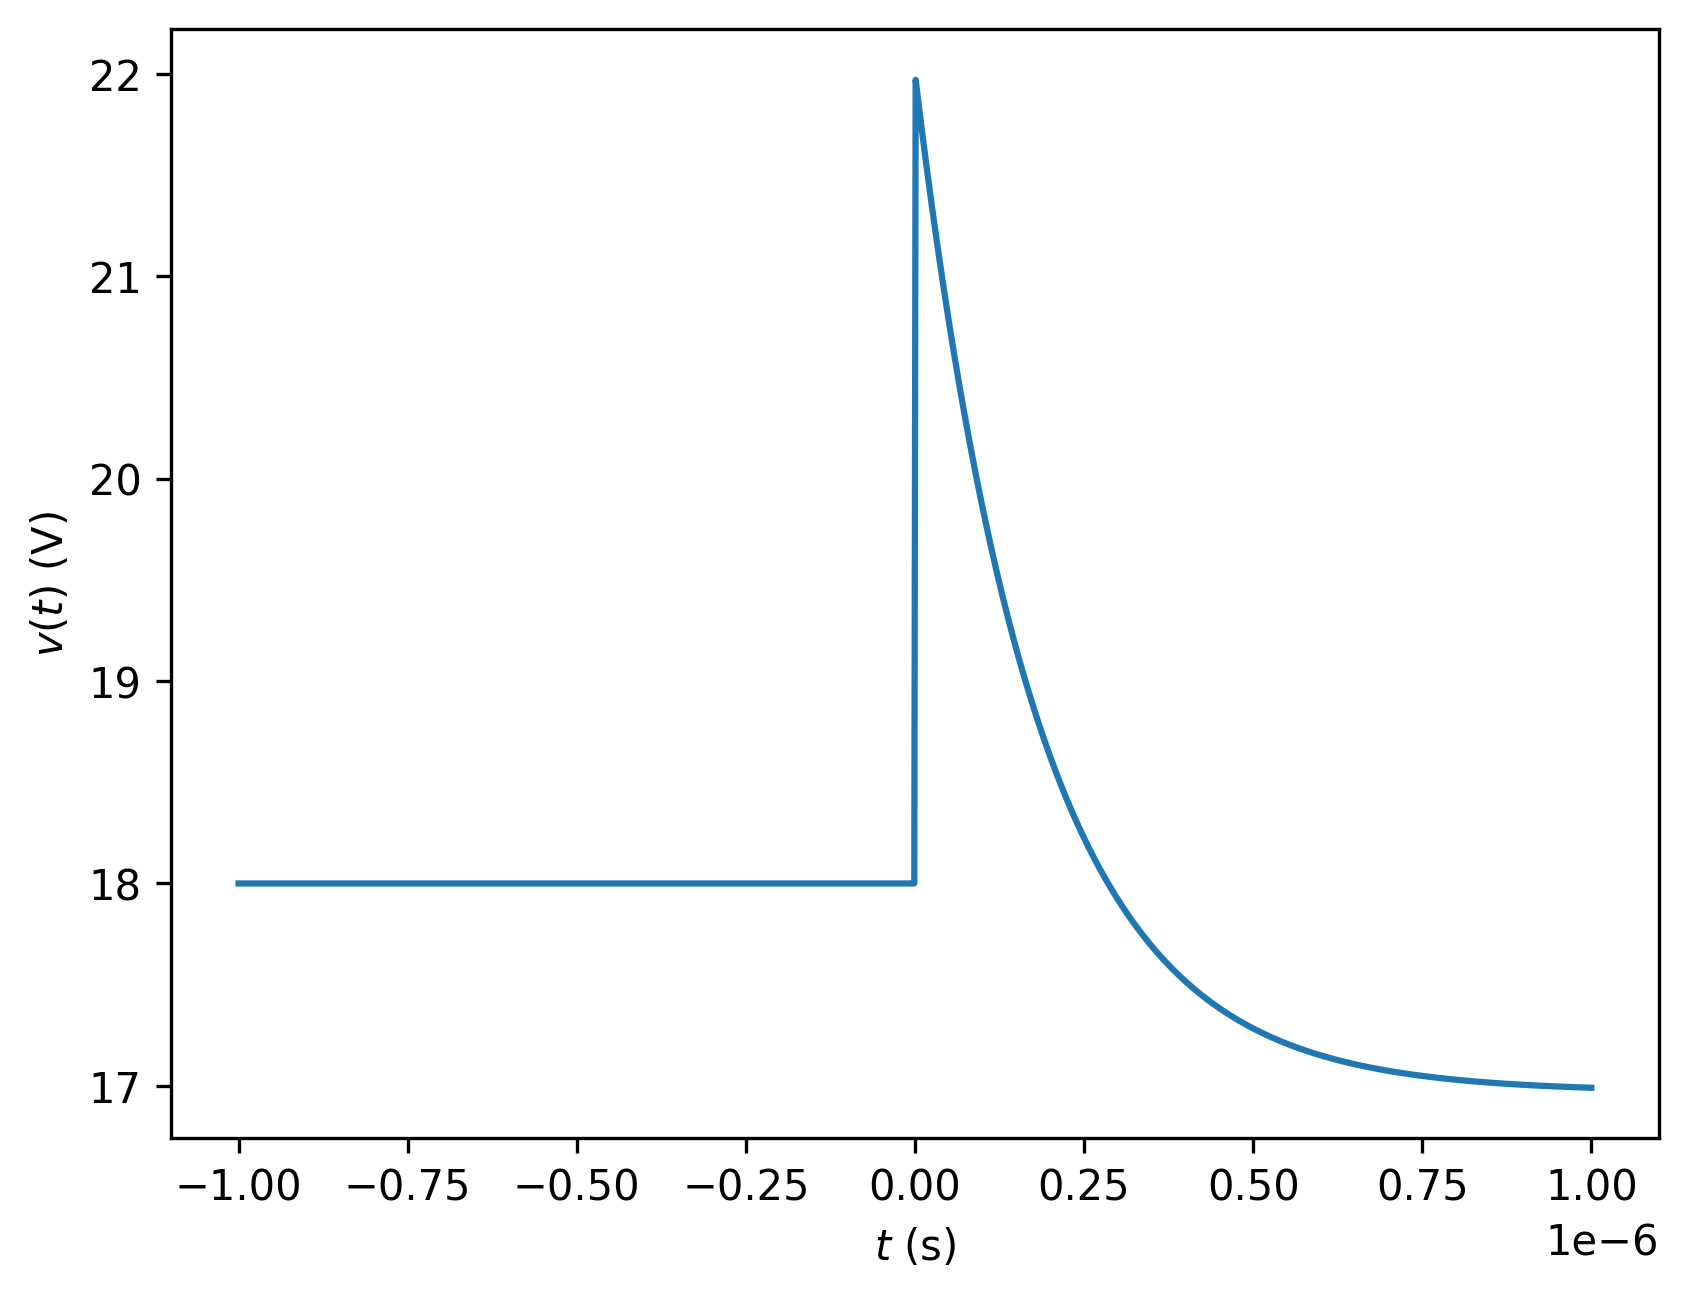
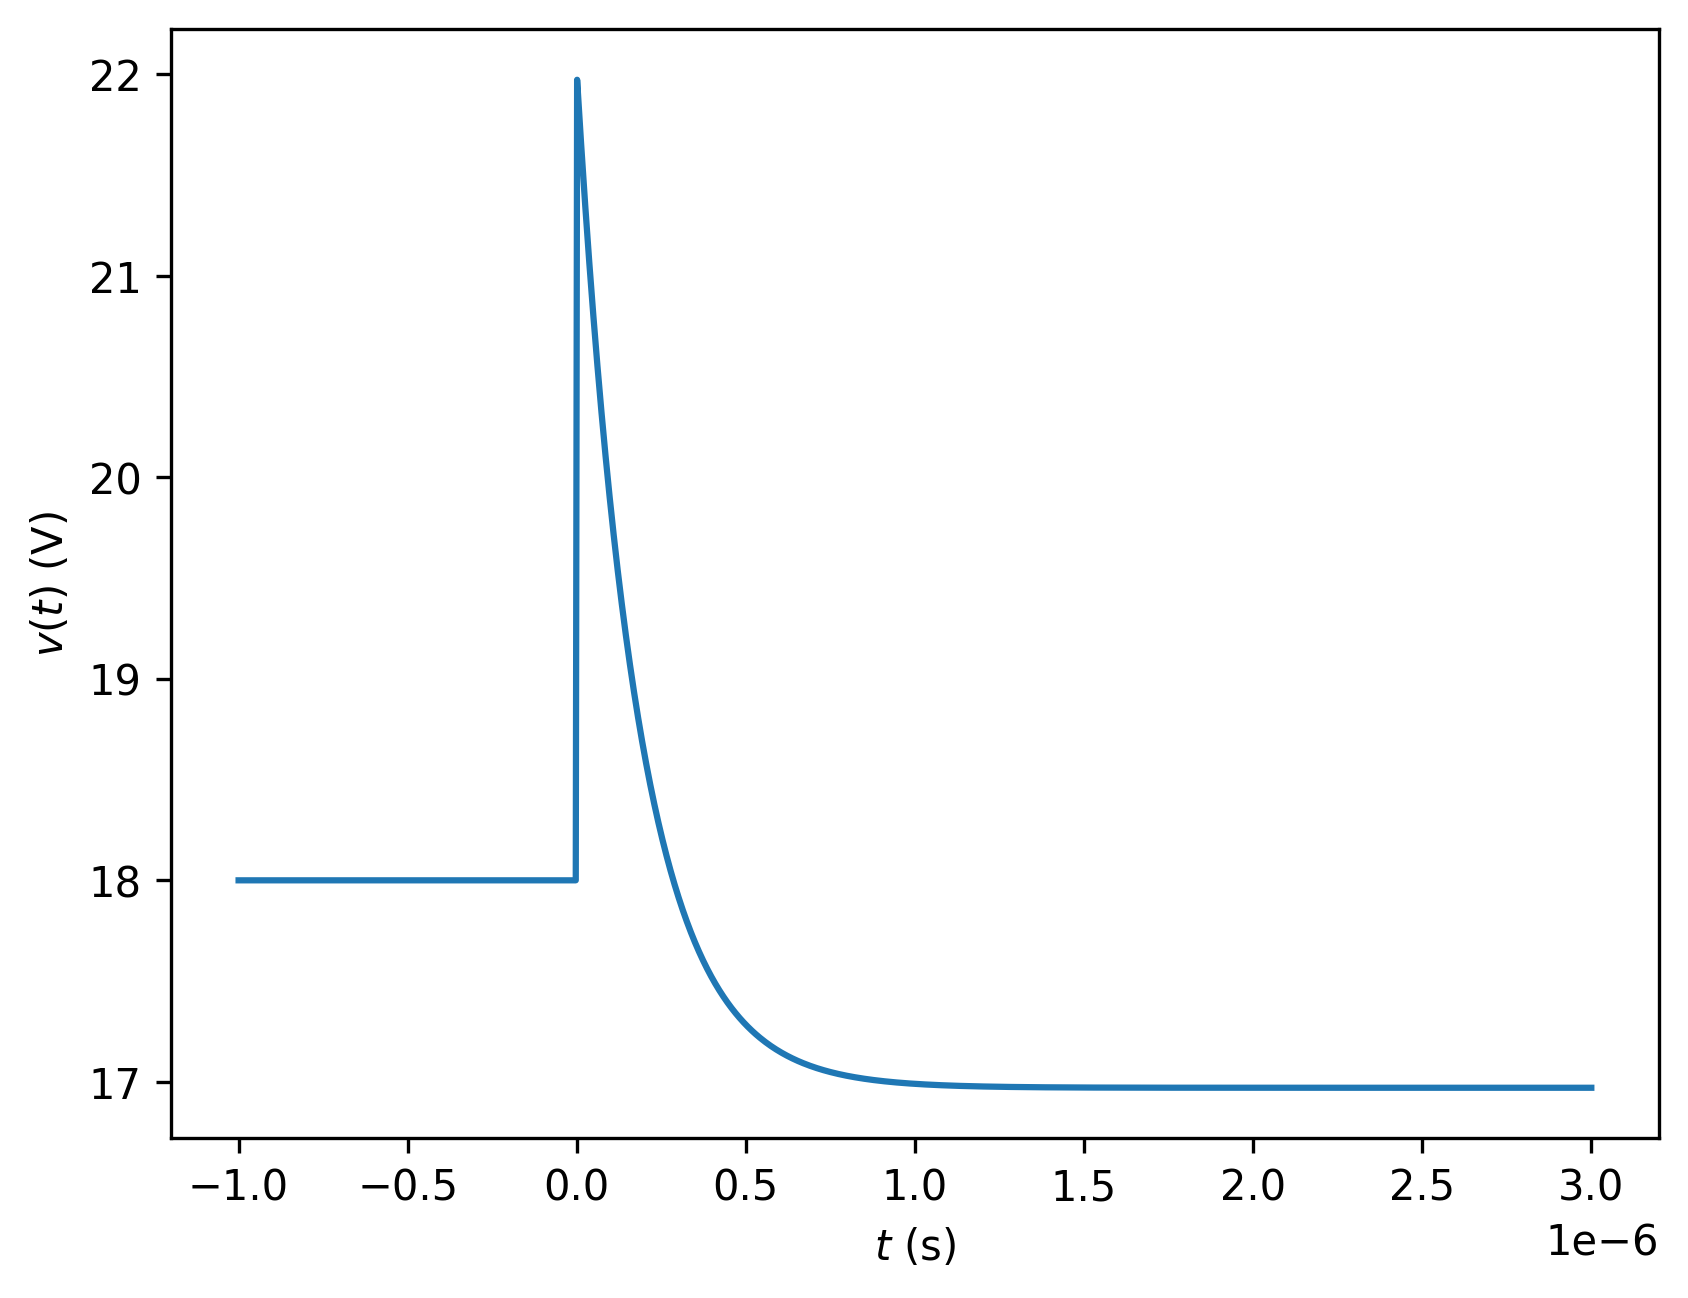
last commit

diff --git a/tarea1.py b/tarea1.py
@@ -13,7 +13,7 @@ def main():
             return 5.028*np.exp(-(50/9) * 1e6 * t) + 16.971
 
     
-    tiempo = np.linspace(-1e-6, 1e-6, 1000)
+    tiempo = np.linspace(-1e-6, 3e-6, 1000)
     lista_y = [voltaje(i) for i in tiempo]
        
     fig = plt.figure()
